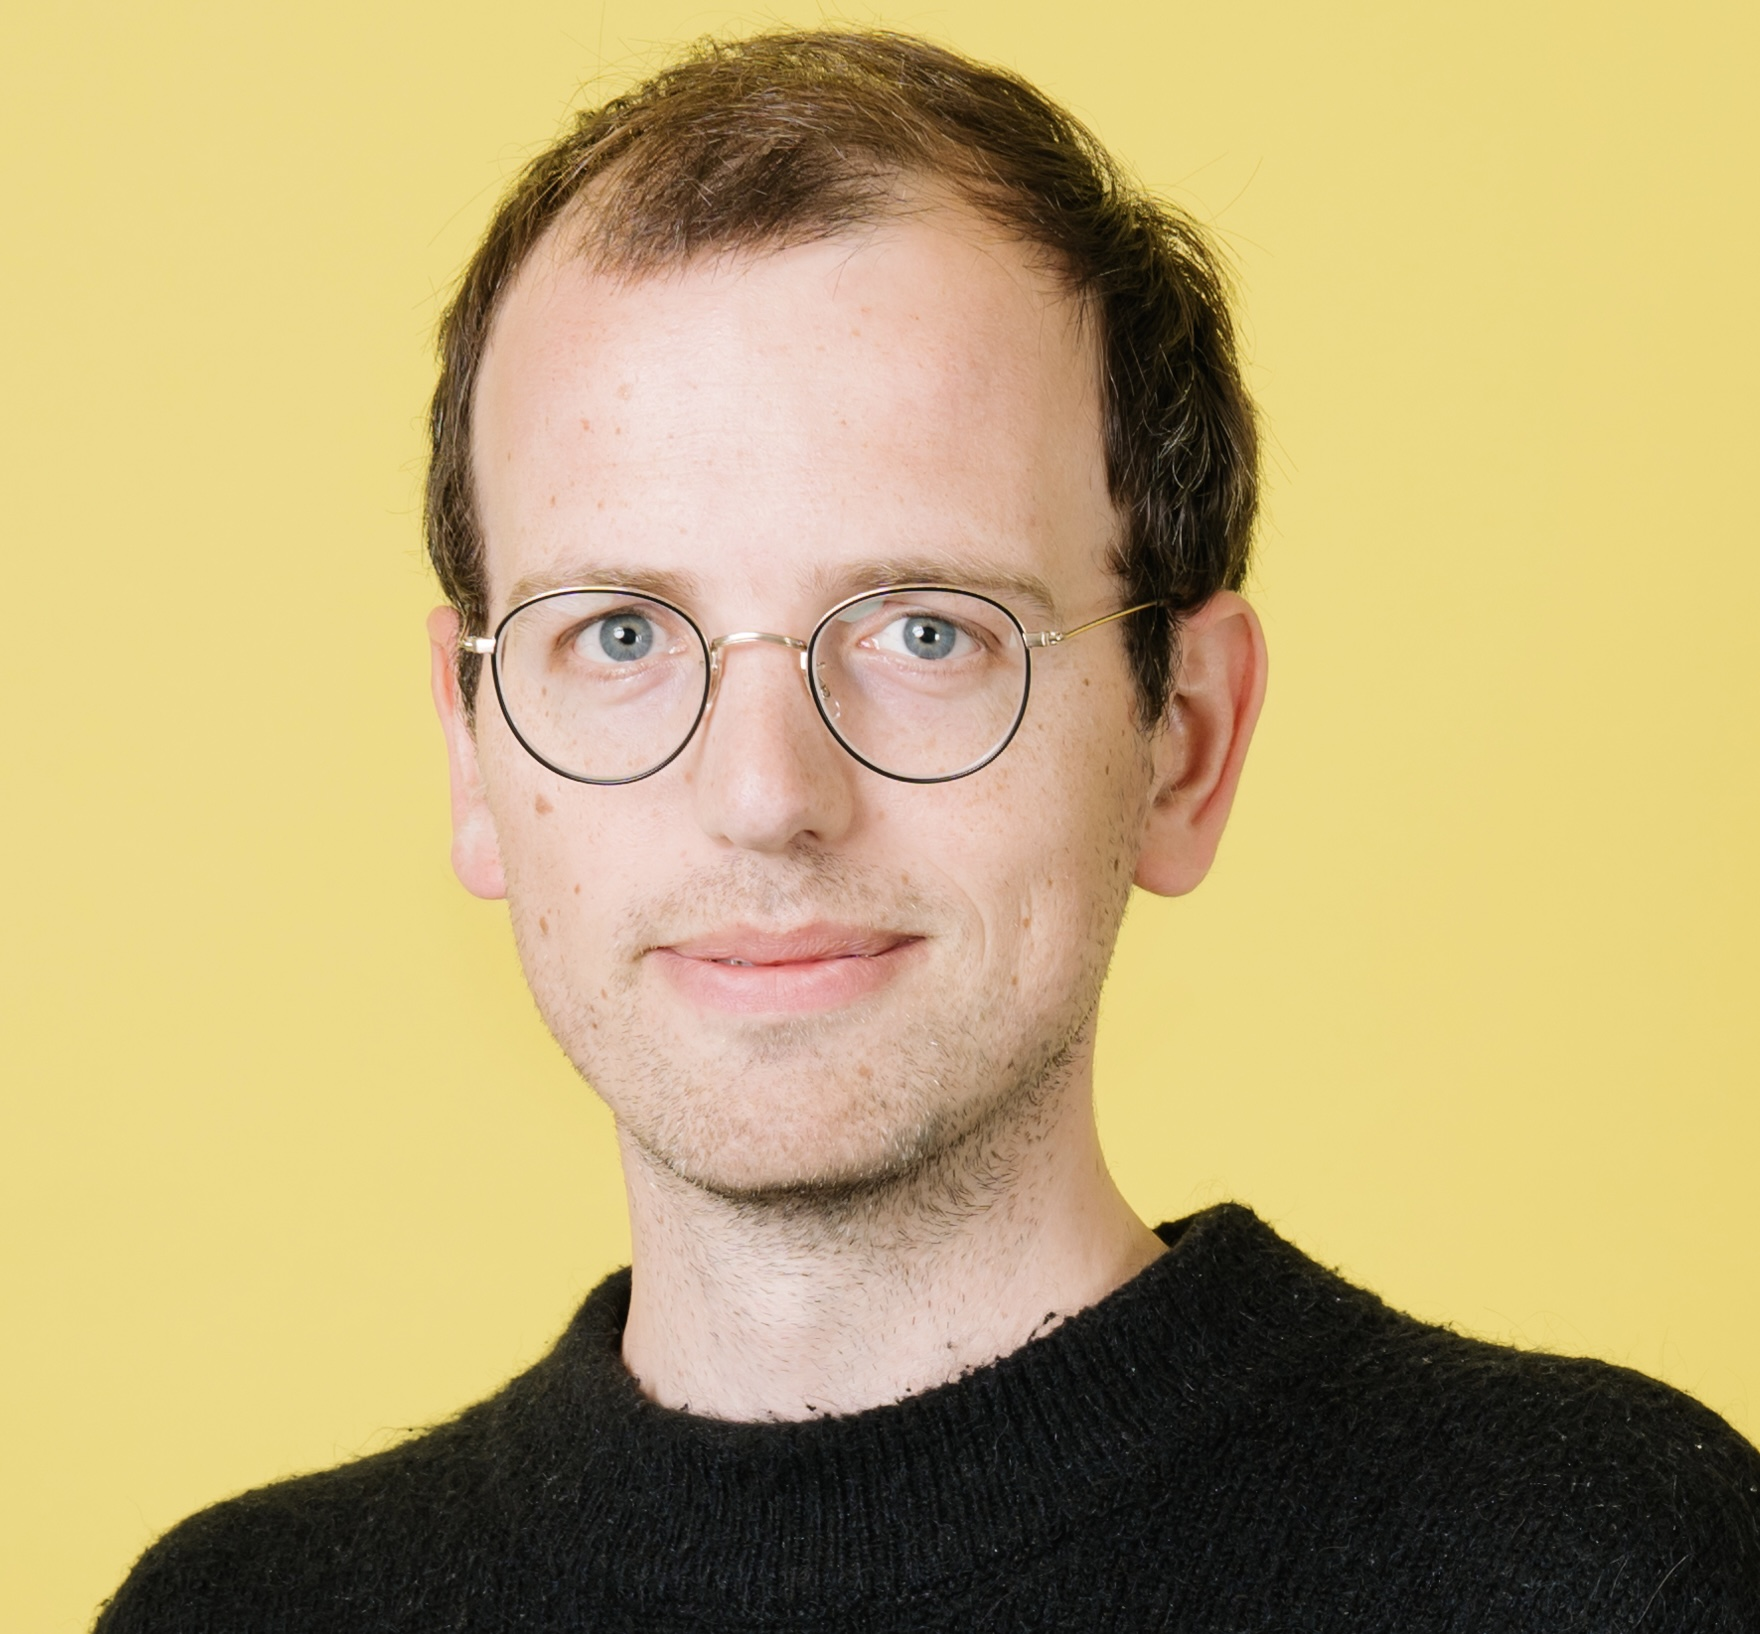
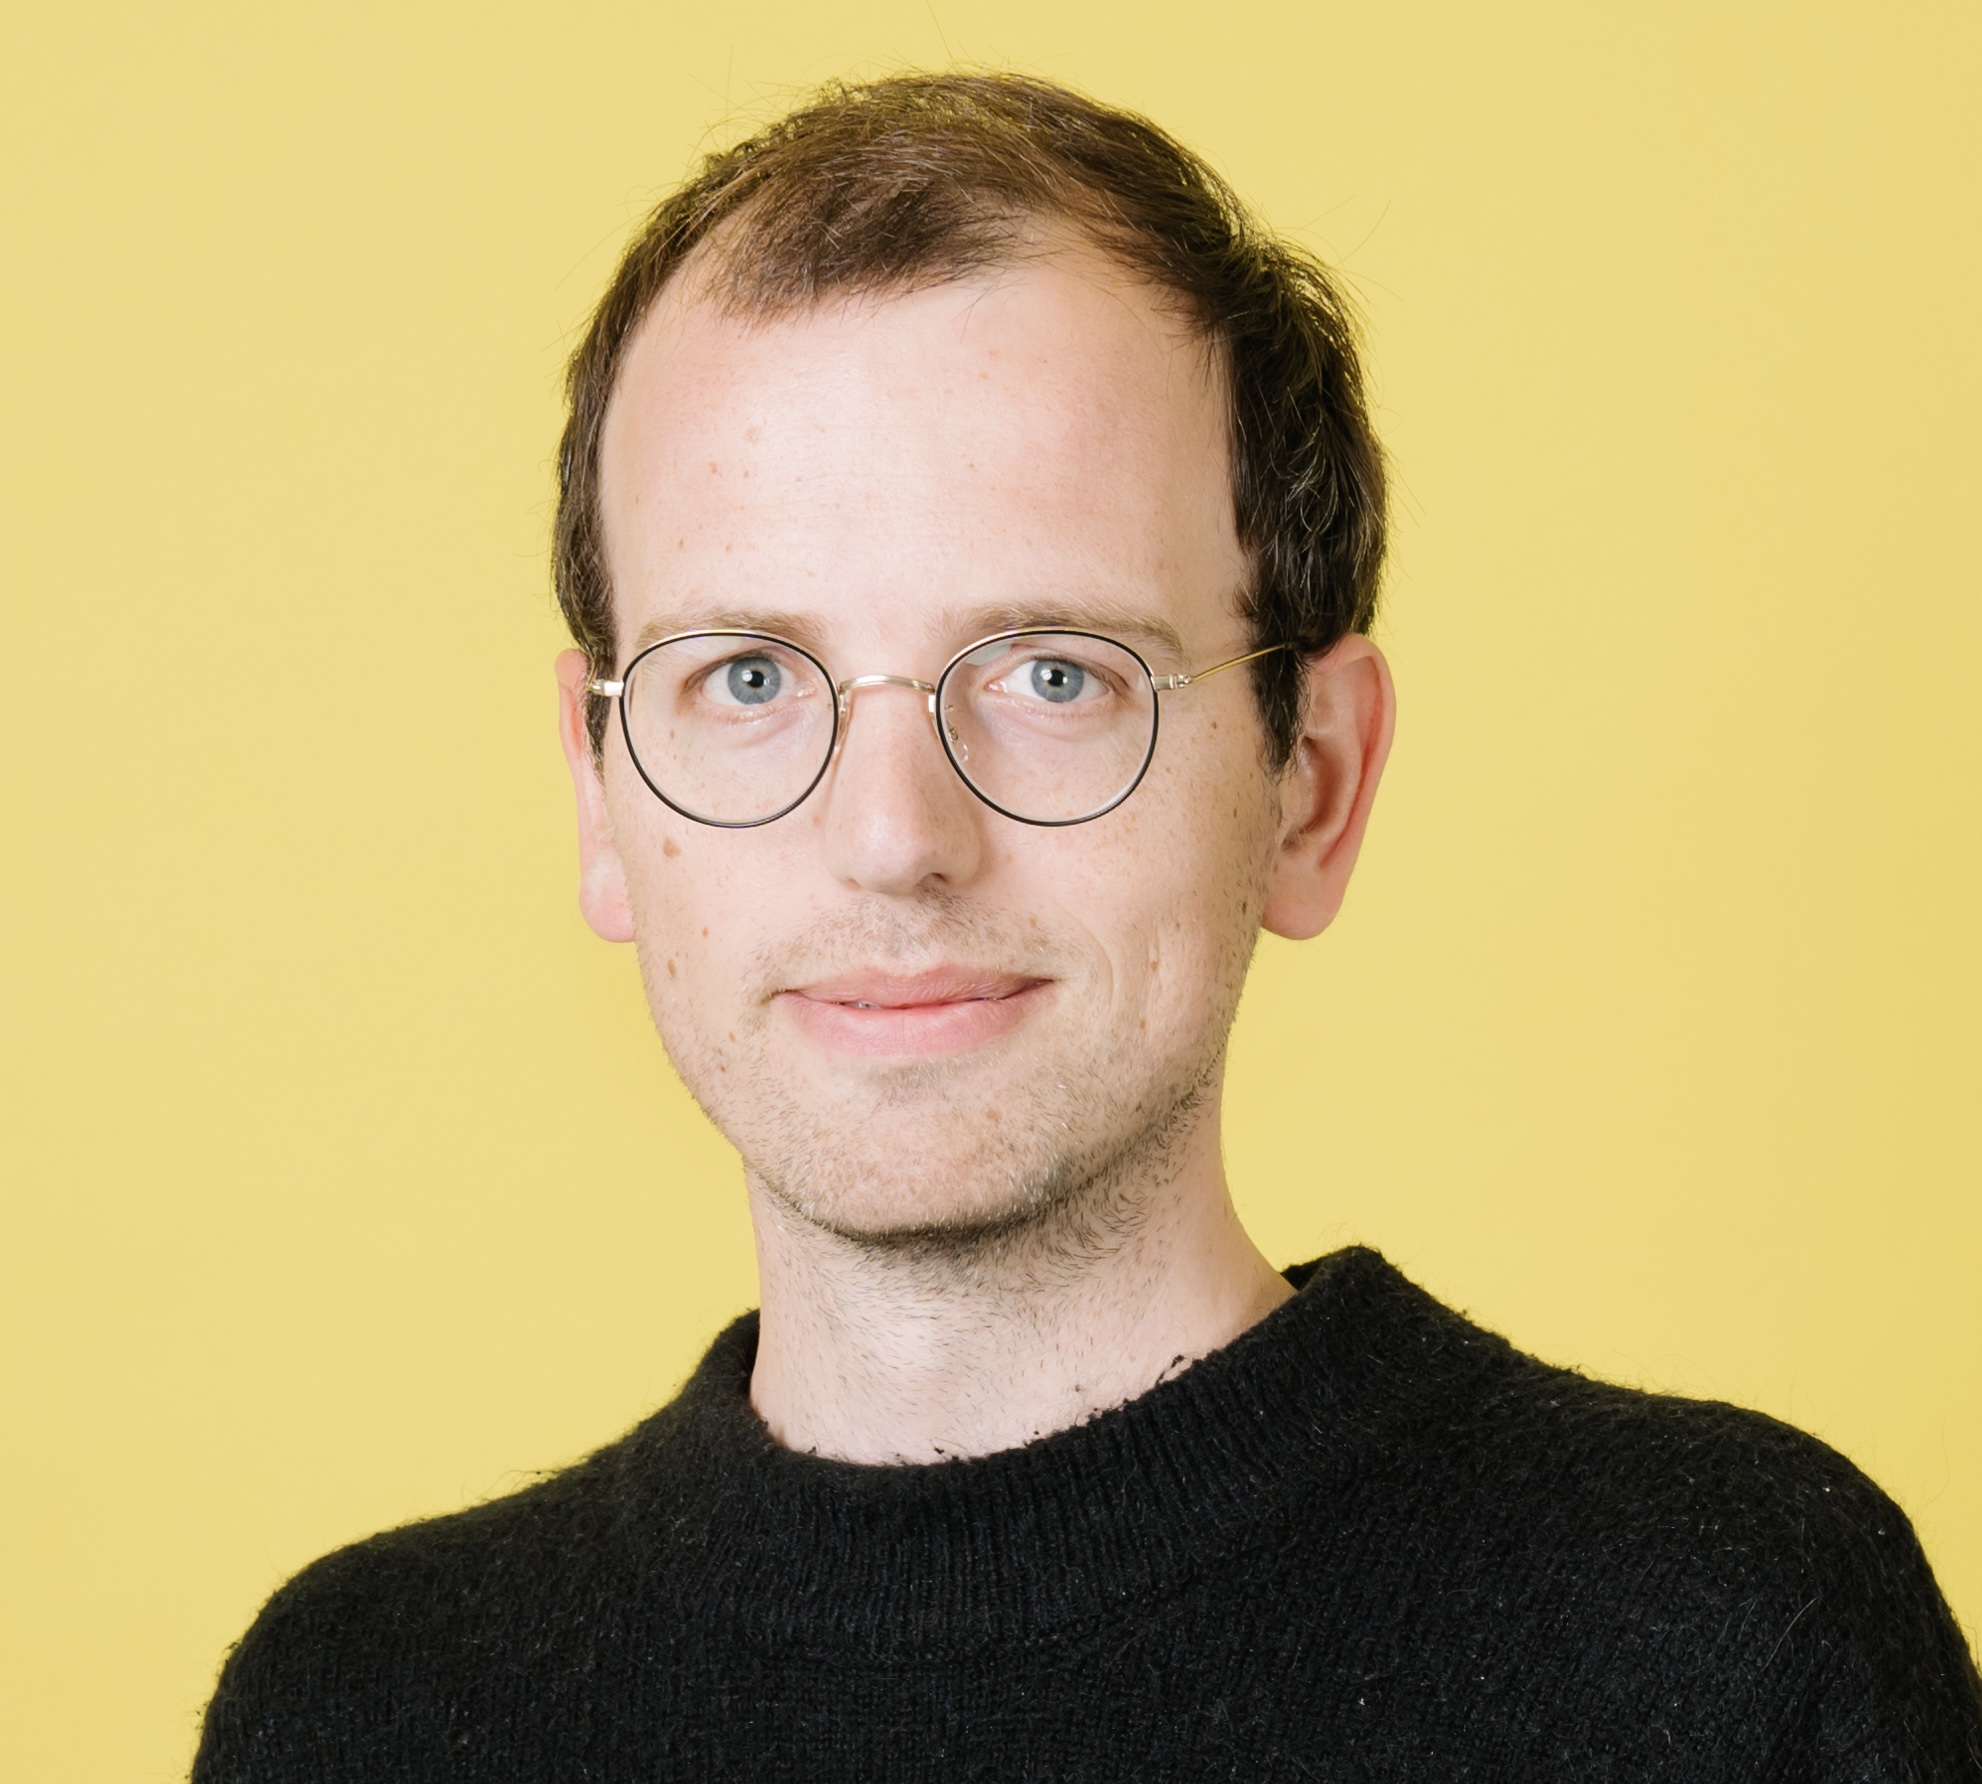
Getting closer

diff --git a/index.html b/index.html
@@ -13,115 +13,112 @@
 <body>
 	<div id="container">
     <!-- Include your Markdown content here -->
-    <div id="sidebar">
-   <img src="IMG_0414.jpg"
-     alt="Martijn Wallage"
-	 height=326px
-     style="float: left; padding: 0px; margin: 0px;" />
+    	<div id="sidebar">
+   			<img src="IMG_0414.jpg"
+     		alt="Martijn Wallage"
+	 		width=400px;
+	 		height=350px;
+     		style="float: left; padding: 0px; margin-bottom: 50px;" />
 
-	<hr>
-
- <h3>Contact</h3>
- <ul>
- 	<li><i class="material-icons" style="font-size:24px; margin-right:10px">mail</i>martijnwallage@gmail.com</li>
-	<li><i class="fa fa-linkedin-square" style="font-size:24px; margin-right:10px"></i>linkedin.com/in/martijnwallage/</li>
-	<li><i class="fa fa-github" style="font-size:24px; margin-right:10px"></i> github.com/MartijnWallage</li>
-	<li><span class="material-symbols-outlined" style="margin-right:10px">call</span>+4917683172847</li>
-	<li><span class="material-symbols-outlined" style="margin-right:10px">home</span>Schnellerstr. 36, 12439 Berlin</li>
- </ul>
+			<div id="sidebar_txt">
+				<hr>
+				<h3>Contact</h3>
+				<ul>
+					<li><i class="material-icons" style="font-size:24px; margin-right:10px">mail</i>martijnwallage@gmail.com</li>
+					<li><i class="fa fa-linkedin-square" style="font-size:24px; margin-left:2px; margin-right:10px"></i><a href="https://linkedin.com/in/martijnwallage/">linkedin.com/in/martijnwallage</a></li>
+					<li><i class="fa fa-github" style="font-size:24px; margin-left:2px; margin-right:10px"></i><a href="https://github.com/MartijnWallage">github.com/MartijnWallage</a></li>
+					<li><span class="material-symbols-outlined" style="font-size: 24px; margin-right:8px">call</span>017683172847</li>
+					<li><span class="material-symbols-outlined" style="font-size: 24px; margin-right:8px">home</span>Schnellerstr. 36, 12439 Berlin</li>
+				</ul>
  
- <hr>
+				<hr>
   
- <h3>Skills</h3>
-	<ul>
-		<li>C, C++, Java, Python</li>
-		<li>HTML, CSS</li>
-		<li>Git, GitHub</li>
-		<li>VS Code, Vim, Bash</li>
-		<li>Analytic Thinking, Problem Solving, Communication</li>
-	</ul>
+				<h3>Skills</h3>
+				<ul>
+					<li> — C, C++, Java, Python</li>
+					<li> — HTML, CSS</li>
+					<li> — Git, GitHub</li>
+					<li> — VS Code, Vim, Bash</li>
+					<li> — Analytic Thinking, Problem Solving, Communication</li>
+				</ul>
+				
+				<hr>
 
-	<hr>
-
- <h3>Languages</h3>
- <ul>
-	 <li>English: Native level</li>
-	 <li>Dutch: Native</li>
-	 <li>German: Advanced</li>
- </ul> 
-    </div>
-
+ 				<h3>Languages</h3>
+ 				<ul>
+	 				<li>English — Native level</li>
+					<li>German — Advanced</li>
+					<li>Dutch — Native</li>
+				</ul> 
+    		</div>
+		</div>
     <div id="content">
 		
-<h1>Martijn Wallage</h1>
-<h2>Junior Software Developer C</h2>
+		<h1>Martijn Wallage</h1>
+		<h2>Junior Software Developer C</h2>
 
-<hr>
+		<hr>
  
-<h3>About me</h3>
+		<h3>About me</h3>
 
-<p>I study software engineering in C, C++, Git and Bash at 42 Berlin. I have loved programming since I was a child. After an academic career in philosophy of language and logic, I now want to make it my profession. As a researcher I have learned to solve complex problems through logical reasoning; as a lecturer I have developed my communication skills. I am excited about developing software in a team.</p>
-<p>Date of birth: November 27, 1984</p>
-<p>Place of birth: Groningen, the Netherlands</p>
+		<p>I study software engineering in C, C++, Git and Bash at 42 Berlin. I have loved programming since I was a child, and after an academic career in philosophy of language and logic, I now want to make it my profession. As a researcher, I have learned to solve complex problems through logical reasoning; as a lecturer, I have developed my communication skills. I am excited about developing software in a team.</p>
 
-<hr>
+		<p style="font-weight:200">Date of birth: 27 November 1984</p>
+		<p style="font-weight:200">Place of birth: Groningen, the Netherlands</p>
 
-<h3>Work experience</h3>
+		<hr>
 
-<h4>LECTURER, Philosophy | Leipzig University - Leipzig, Germany</h4>
-<p><em>October 2017 - May 2022</em></p>
-<ul>
-	<li> Researched and taught Philosophy of Language and Logic.</li>
-	<li> Mentored BA and MA students.</li>
-	<li>Organised conferences.</li>
-</ul>
+		<h3>Experience</h3>
 
-<h4>VISITING SCHOLAR, Philosophy | University of Chicago - Chicago, USA</h4>
-<p><em>October 2019 – March 2020</em></p>
+		<h4>LECTURER in Philosophy<span class="date">2017&ndash;2022</span></h4>
+		<h5>Leipzig University - Leipzig, Germany</h5>
+		<ul>
+			<li> - Researched and taught Philosophy of Language and Logic.</li>
+			<li> - Mentored BA and MA students.</li>
+			<li> - Organised conferences.</li>
+		</ul>
 
-<hr>
+		<h4>VISITING SCHOLAR in Philosophy<span class="date">2019&ndash;2020</span></h4>
+		<h5>University of Chicago - Chicago, USA</h5>
 
-<h3>Education</h3>
+		<hr>
 
-<h4>PHD in Philosophy<h4>
-<p>King’s College London - London, United Kingdom.</p>
-<p><em>Graduation Date: January 2017</em></p>
+		<h3>Education</h3>
 
-<h4>LOGIC YEAR</h4>
-<p>Institute for Logic, Language and Computation - University of Amsterdam, the Netherlands.</p>
-<em>Graduation Date: February 2012</em>
+		<h4>PHD IN PHILOSOPHY<span class="date">2013&ndash;2017</span></h4>
+		<h5>King’s College London - London, United Kingdom.</h5>
 
-<h4>MLITT in Creative Writing</h4>
-<p>University of Glasgow - Glasgow, United Kingdom.</p>
-<p><em>Graduation Date: December 2009</em></p>
+		<h4>LOGIC YEAR<span class="date">2010&ndash;2012</span></h4>
+		<h5>Institute for Logic, Language and Computation - University of Amsterdam, the Netherlands.</h5>
+		<p>Graduate Program in Logic and Formal Semantics</p>
 
-<h4>MA in Philosophy</h4>
-<p>University of Amsterdam – Amsterdam, the Netherlands.</p>
-<p><em>Graduation Date: August 2008</em></p>
+		<h4>MLITT IN CREATIVE WRITING<span class="date">2008&ndash;2009</span></h4>
+		<h5>University of Glasgow - Glasgow, United Kingdom.</h5>
 
-<h4>BA in Philosophy</h4>
-<p>University of Groningen - Groningen, the Netherlands.</p>
-<p><em>Graduation Date: May 2007</em></p>
+		<h4>MA IN PHILOSOPHY<span class="date">2007&ndash;2008</span></h4>
+		<h5>University of Amsterdam – Amsterdam, the Netherlands.</h5>
 
-<hr>
+		<h4>BA IN PHILOSOPHY<span class="date">2004&ndash;2007</span></h4>
+		<h5>University of Groningen - Groningen, the Netherlands.</h5>
 
-<h3>Projects</h3>
+		<hr>
 
-<h4>Minishell</h4>
-<ul>
-	<li>Recreation of Bash shell. Joint project.</li>
-	<li><em>Technologies:</em> C, Git.</li>
-	<li><em>GitHub:</em> <a href="https://github.com/MartijnWallage/42_minishell" target=_blank>github.com/MartijnWallage/42_minishell</a></li>
-</ul>
+		<h3>Projects</h3>
 
-<h4>Philosophers</h4>
-<ul>
-	<li>Implementation of solutions to E.W. Dijkstra’s ‘dining philosophers problem’ for concurrent computing.</li>
-	<li><em>Technologies:</em> C, threads, mutex, processes, semaphores.</li>
-	<li><em>GitHub:</em> <a href="https://github.com/MartijnWallage/42_philosophers" target=_blank>github.com/MartijnWallage/42_philosophers</a></li>
-</ul>
-		
-    </div>
+		<h4>Minishell</h4>
+		<ul>
+			<li>Recreation of Bash shell. Joint project.</li>
+			<li><em>Technologies</em>: C, Git.</li>
+			<li><i class="fa fa-github" style="font-size:24px; margin-right:10px"></i><a href="https://github.com/MartijnWallage/42_minishell" target=_blank>github.com/MartijnWallage/42_minishell</a></li>
+		</ul>
+
+		<h4>Philosophers</h4>
+		<ul>
+			<li>Implementation of solutions to E.W. Dijkstra’s ‘dining philosophers problem’ for concurrent computing.</li>
+			<li><em>Technologies</em>: C, threads, mutex, processes, semaphores.</li>
+			<li><i class="fa fa-github" style="font-size:24px; margin-right:10px"></i><a href="https://github.com/MartijnWallage/42_philosophers" target=_blank>github.com/MartijnWallage/42_philosophers</a></li>
+		</ul>
+	</div>
 </div>
 </body>
 </html>

diff --git a/styles.css b/styles.css
@@ -53,14 +53,27 @@ h3 {
 }
 
 h4 {
-	font-variant: small-caps;	
+	margin-top: 30px;
+	margin-bottom: 0px;
+	font-weight: bolder;
+}
+
+h5 {
+	font-size: 16px;
+	font-style: normal;
+	font-weight: 500;
+	margin: 0;
+}
+
+.date {
+	float: right;
+	font-style: italic;
 }
 
 ul {
     list-style-type: none;
     margin-bottom: 30px;
     padding: 0;
-	font-size: 18px;
 }
 
 li {
@@ -68,29 +81,40 @@ li {
 }
 
 p {
-    margin-bottom: 30px;
+    margin-bottom: 10px;
 	font-size: 16px;
-	font-style: regular;
+	font-style: normal;
 	font-weight: 400;
 	text-align: justify;
+}
+
+hr {
+	margin-top: 50px;
+	margin-bottom: 25px;
+	margin-left: 0px;
 }
 
 /* Define styles for the sidebar */
 #sidebar {
     height: 3000px;
-    width: 35%;
+    width: 400px;
     float: left;
     background-color: #0066cc;
     color: #ffffff;
-    padding: 50px;
+	padding: 0px;
     box-sizing: border-box;
+	font-size: 18px;
 }
 
 #sidebar hr {
 	width: 80px;
 	height: 5px;
-	margin: 25px;
+	border: 0px;
 	background-color: #ffffff;
+}
+
+#sidebar_txt {
+	padding: 50px;
 }
 
 #content {
@@ -105,13 +129,13 @@ p {
 #content hr {
 	width: 80px;
 	height: 5px;
-	margin: 25px;
 	background-color: #0066cc;
 }
 
 /* Add a simple hover effect to links */
 a {
-    color: #3498db;
+	color: inherit;
+	text-decoration: none;
     transition: color 0.3s ease;
 }
 
